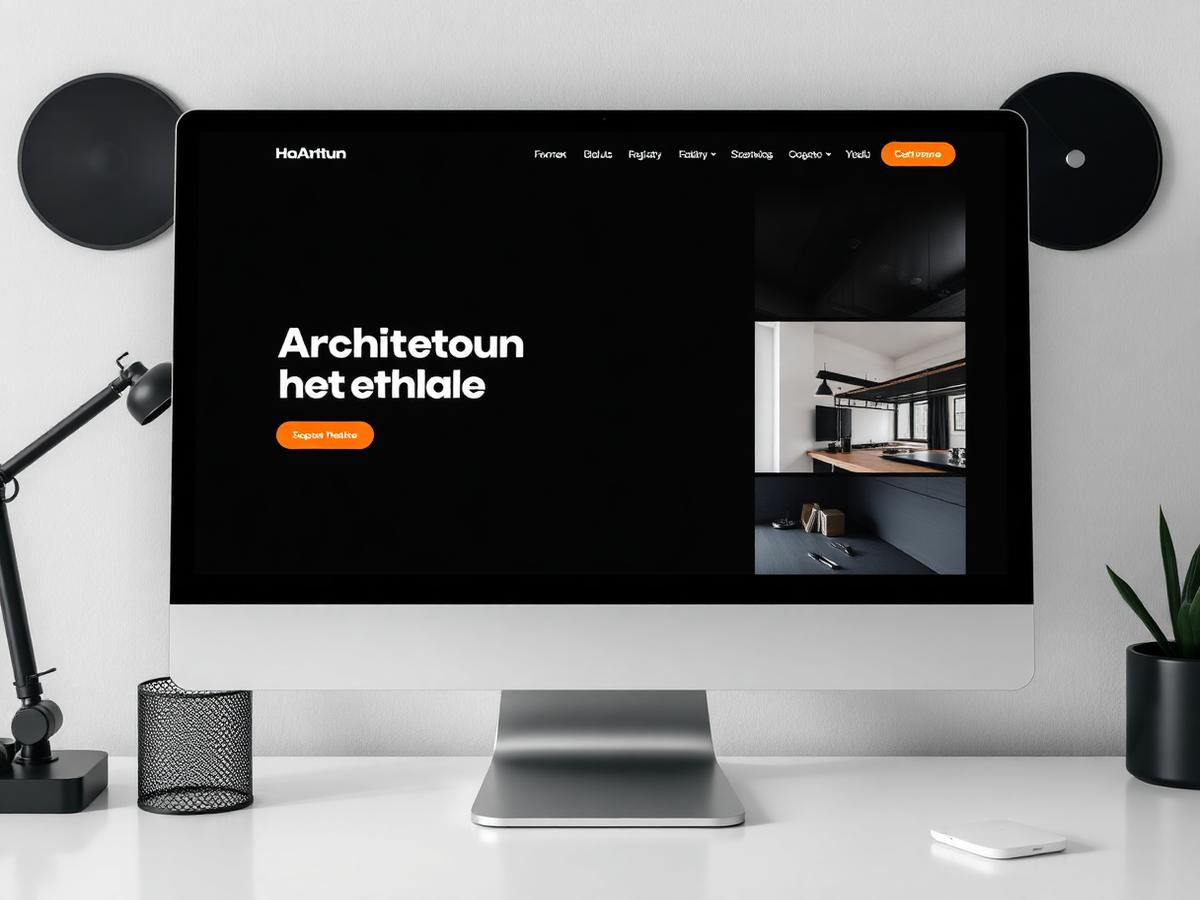
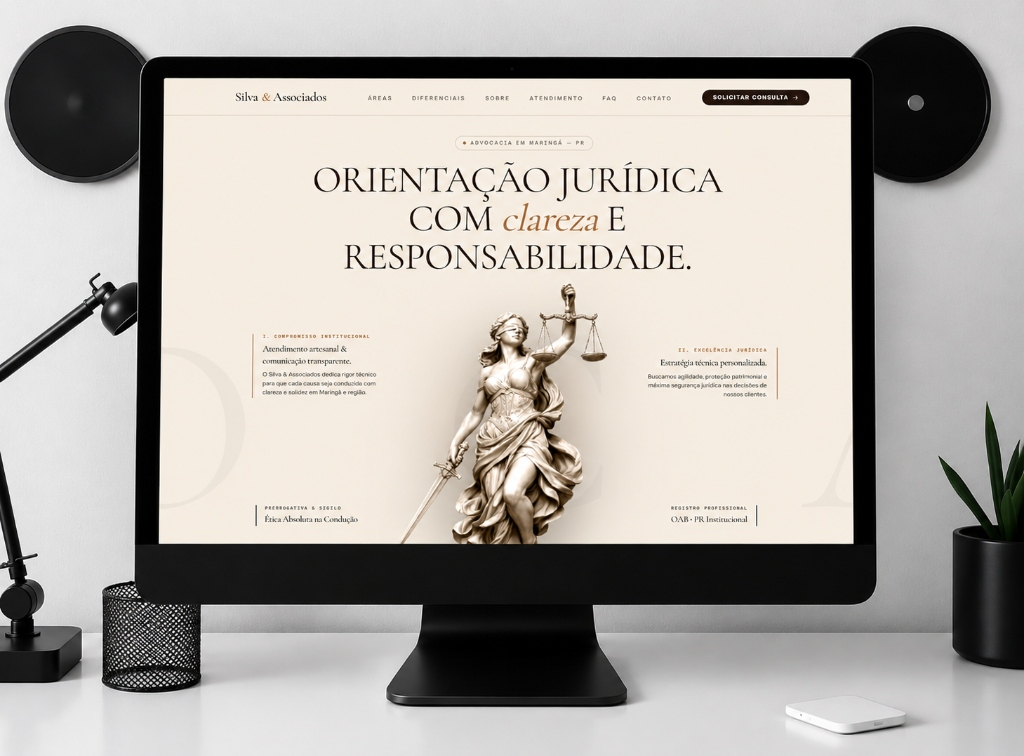
...

diff --git a/src/routes/index.tsx b/src/routes/index.tsx
@@ -450,10 +450,12 @@ function Portfolio() {
     },
     {
       img: portfolio3,
-      title: "Estúdio de Arquitetura & Design",
-      tag: "Portfólio Interativo Minimalista",
-      w: 1200,
-      h: 900,
+      title: "Silva & Associados",
+      tag: "Orientação Jurídica Especializada",
+      link: "https://www.behance.net/gallery/252790431/Silva-Associados",
+      embedUrl: "https://www.behance.net/embed/project/252790431?ilo0=1",
+      w: 1450,
+      h: 1085,
     },
   ];
 